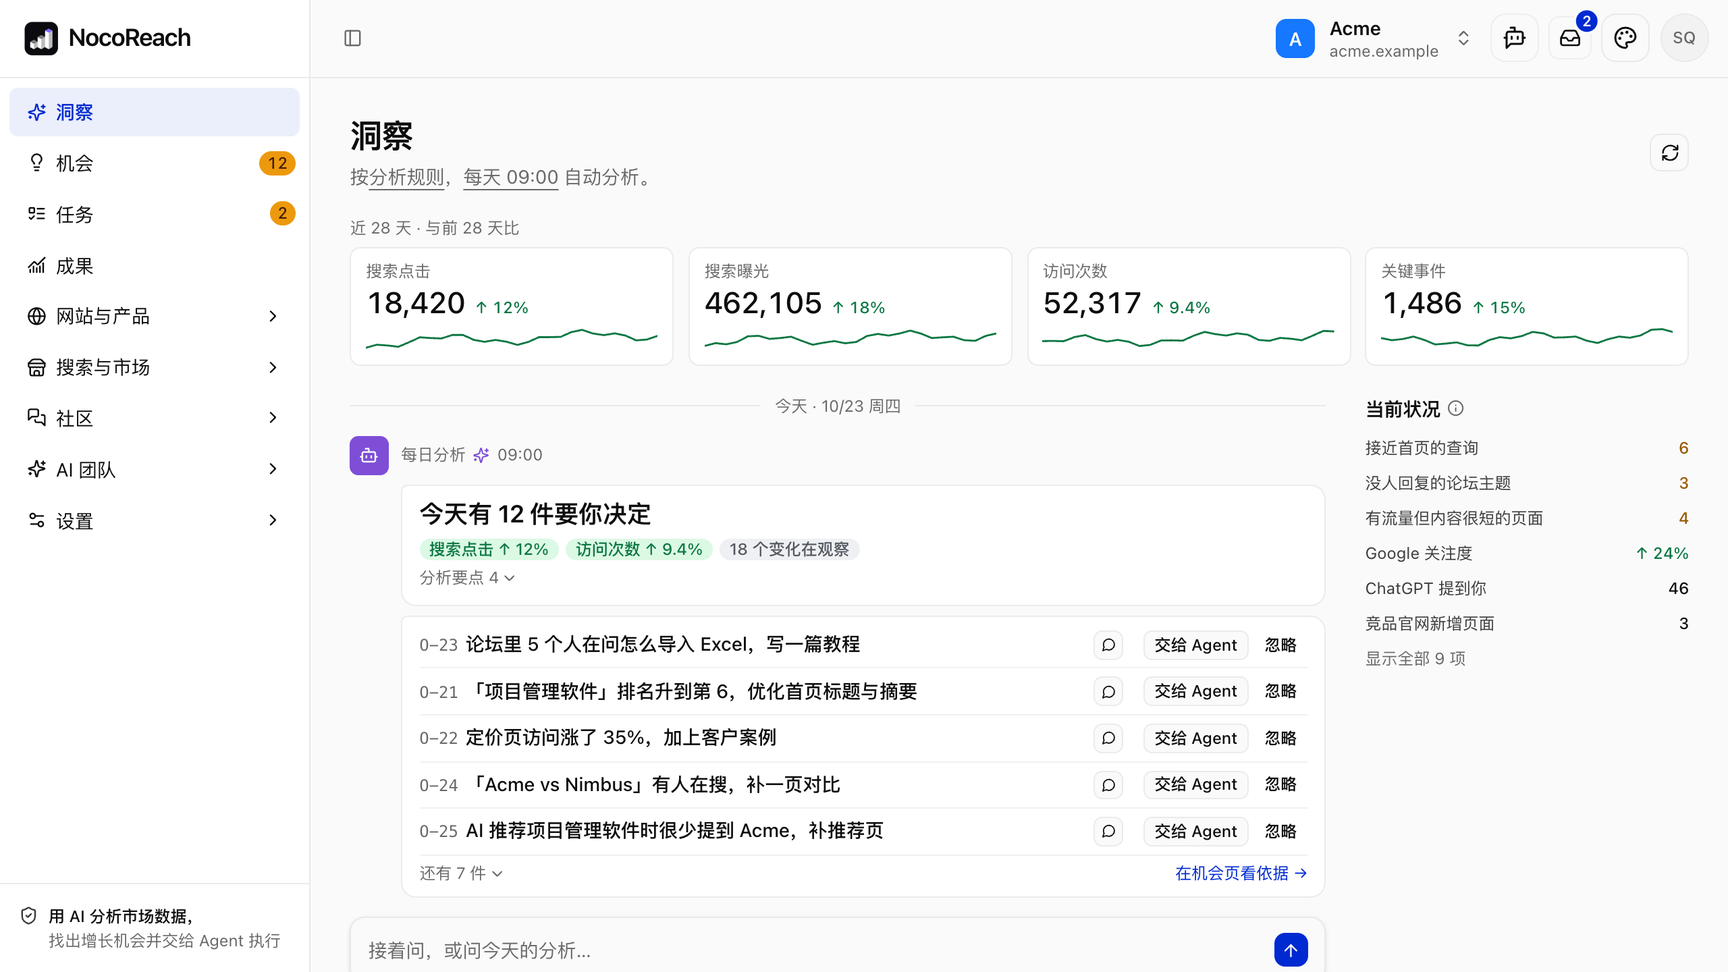
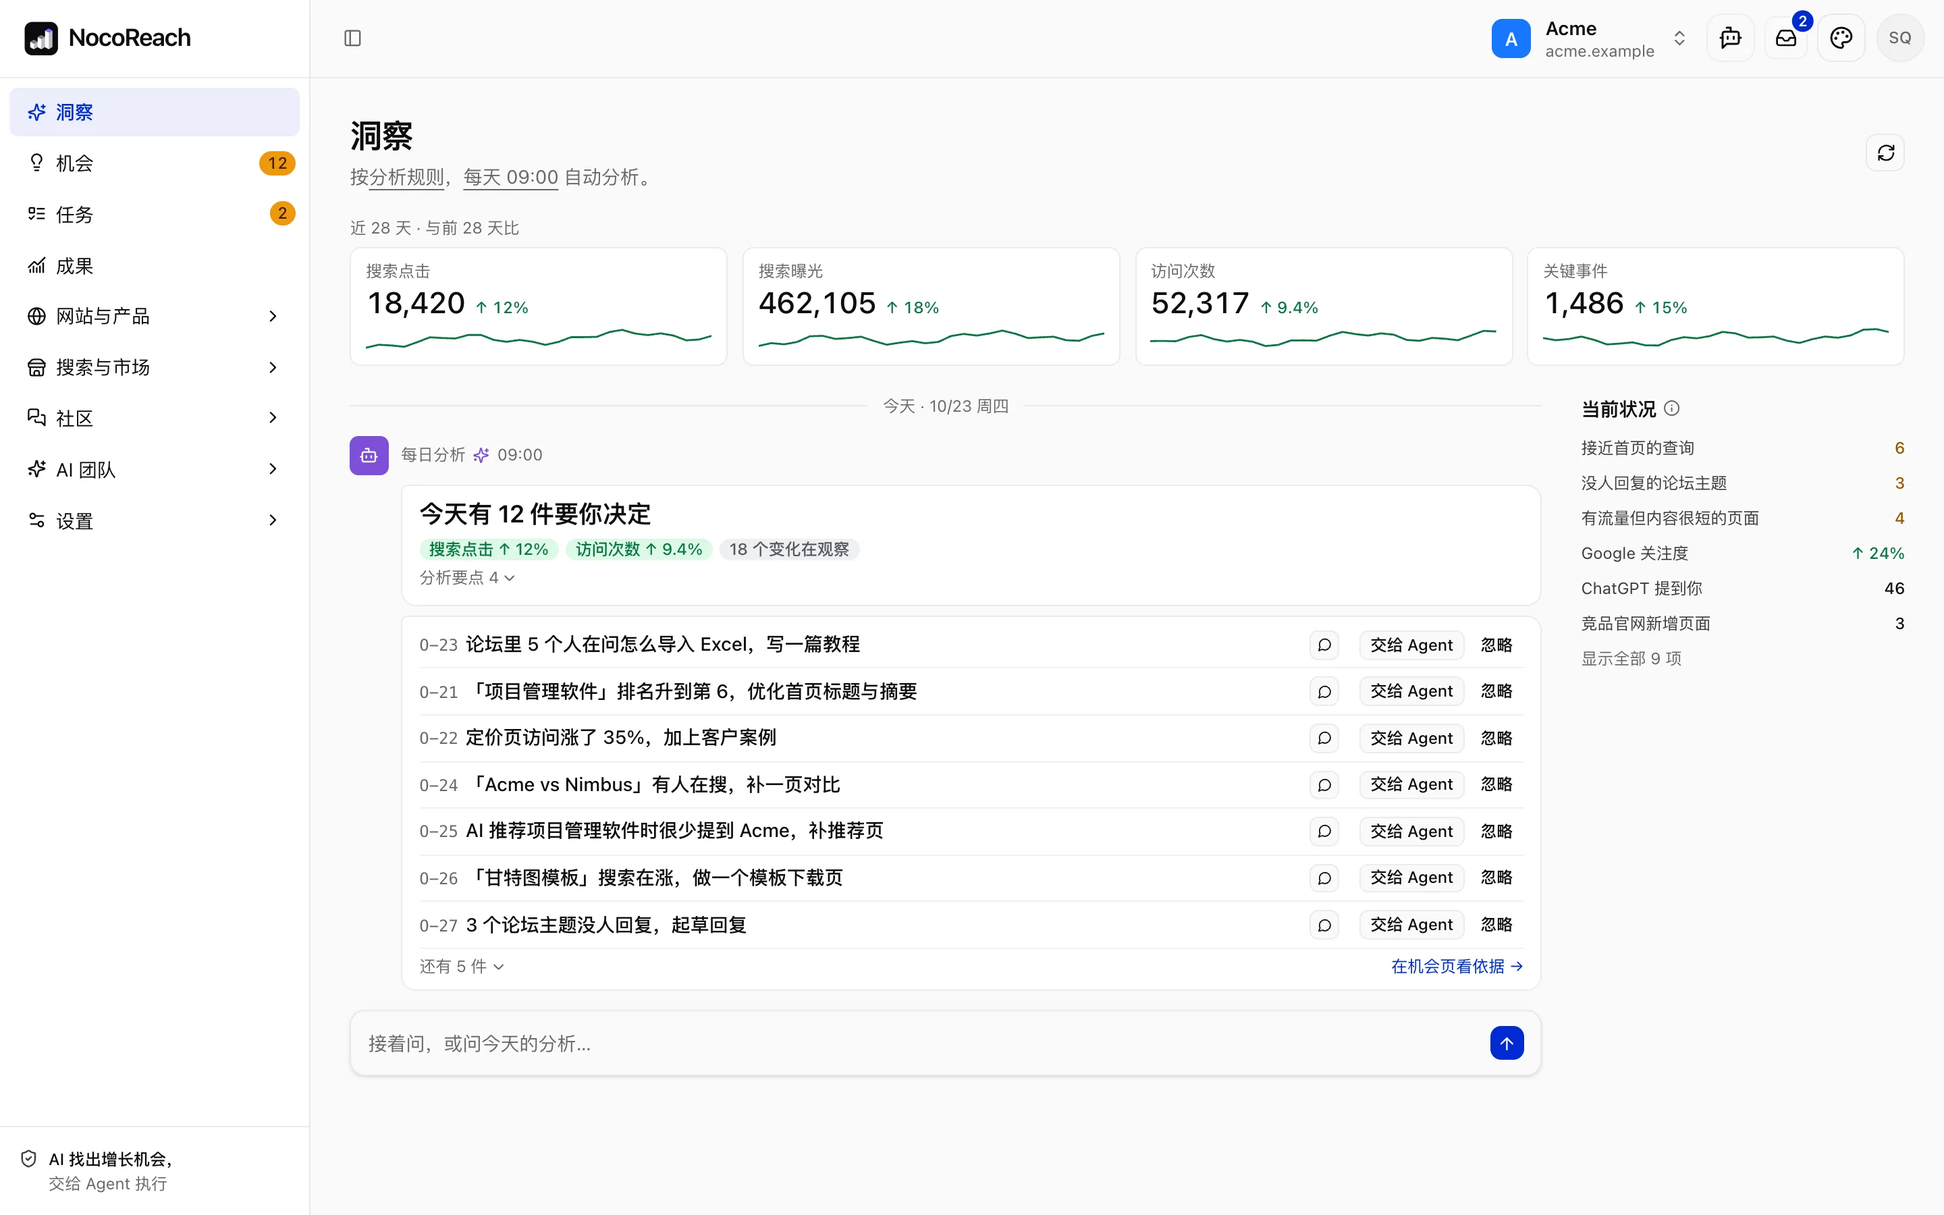
README: screenshot gallery and feature list
Add a gallery of six whole-window screenshots (Insights, Opportunities,
Tasks, Traffic, Keywords, AI search) as clickable thumbnails, all drawn
from the fictional Acme example used on the website and in the film.
Rewrite the intro and features around what the product does: one place
from keyword research to publishing, daily analysis with AI-assisted rule
tuning, agent execution, review, impact and self-hosting. List the pages
without screenshots.

diff --git a/README.ja-JP.md b/README.ja-JP.md
@@ -9,22 +9,49 @@
 <p align="center">AI グロース運用プラットフォーム · NocoBase Core で構築</p>
 
 <p align="center">
+  <a href="LICENSE"><img src="https://img.shields.io/badge/license-Apache--2.0-blue" alt="Apache-2.0"></a>
+  <a href="https://github.com/nocobase/NocoReach/tags"><img src="https://img.shields.io/github/v/tag/nocobase/NocoReach?label=version&sort=semver" alt="version"></a>
+  <a href="https://www.nocobase.com"><img src="https://img.shields.io/badge/built%20on-NocoBase%20Core-1f6feb" alt="Built on NocoBase Core"></a>
+</p>
+
+<p align="center">
   <a href="https://solutions.nocobase.com/reach/"><strong>オンラインで試す</strong></a> · <a href="https://www.nocobase.com/solution-reach/">Web サイト</a> · <a href="README.md">English</a> · <a href="README.zh-CN.md">简体中文</a> · <strong>日本語</strong>
 </p>
 
 https://github.com/user-attachments/assets/7fa9af94-3ce1-4918-841e-07cb9e6869e1
 
-NocoReach は AI グロース運用プラットフォームです。検索や AI 検索からコミュニティ、競合まで 20 以上のデータソースに接続し、取り組む価値のあることを毎日見つけて、エージェントに任せます。変更はすべてあなたがレビューします。
+NocoReach は AI グロース運用プラットフォームです。検索や AI 検索からコミュニティ、競合まで 20 以上のデータソースに接続し、すべてのデータの変化を毎日自動で分析して、データに潜む機会を見つけます。取り組む価値のあるマーケティング施策はエージェントに任せ、変更はあなたがレビューし、公開後は効果を自動で比較します。
 
-| ステップ                | 内容                                                                      |
-| ----------------------- | ------------------------------------------------------------------------- |
-| 1. データを一か所に     | Web サイト、検索、AI 検索、コミュニティ、競合を毎日同期                   |
-| 2. 毎日の分析           | AI がその日の変化を一件ずつ判断し、取り組む価値のあるものを改善機会にする |
-| 3. エージェントに任せる | 確認すれば、複数のタスクが同時に進む                                      |
-| 4. あなたがレビュー     | 記事やページの変更は、承認してから公開                                    |
-| 5. 効果の比較           | 公開から 7 日後と 28 日後に自動で比較                                     |
+## 特長
 
-![インサイト：毎日の分析と、今日判断が必要なこと](https://cdn.jsdelivr.net/gh/nocobase/NocoReach@main/docs/images/readme/insights-en.webp)
+- **ワンストップ**：キーワード調査、データの確認、エージェントへの執筆依頼、レビューと公開、効果の比較まで、ひとつのシステムで完結します。推奨やマーケティング提案は接続したすべてのデータに基づくため、より的確です。
+- **22 のデータソースを一か所に**：GA4、Search Console、キーワードと順位、Google Trends、競合、AI検索（ChatGPT、Google AI Overviews）、GitHub、npm / PyPI / Docker Hub、Discourse、Discord、Slack、Reddit、Hacker News、X、YouTube。足りないデータソースは Coding Agent に開発させられます。
+- **毎日の分析**：44 個の内蔵ルールで変化を見つけ、AI が一件ずつ判断します（対応推奨、経過観察、対応不要）。取り組む価値のあるマーケティング施策は、根拠付きの改善機会になります。ルールの調整は AI が手伝います。各ルールが最近見つけた変化をもとに AI が変更を提案し、確認すると反映されるので、ルールを実際のニーズに合わせられます。
+- **エージェントによる実行**：Claude Code や Codex などのコーディングエージェントが、Runner を通じてあなたのパソコンやサーバー上で動き、複数のタスクを並行して進めます。調査、コンテンツ作成、コンテンツ改善、技術的な修正をカバーする 12 個のプレイブックを内蔵し、編集も AI による新規作成もできます。
+- **人によるレビュー**：記事は読者が見るとおりにプレビューし、ページの変更は変更前後を表示します。承認するまで公開されません。
+- **効果の比較**：公開から 7 日後と 28 日後に、変更したページの検索クリック数とページビューを自動で比較します。
+- **カスタマイズ**：スキル（標準の SKILL.md 形式）、ナレッジ、分析ルール、プレイブックはチームに合わせて変えられます。ソースコードが公開されているので、Coding Agent に必要な部分をカスタマイズさせられます。
+- **セルフホスト**：データは自分のサーバーに保存され、モデルとエージェントは自由に選べます。Apache-2.0 ライセンス。
+
+## スクリーンショット
+
+<table>
+  <tr>
+    <td width="33%" valign="top"><a href="https://cdn.jsdelivr.net/gh/nocobase/NocoReach@main/docs/images/readme/insights-en.webp"><img src="https://cdn.jsdelivr.net/gh/nocobase/NocoReach@main/docs/images/readme/insights-en-thumb.webp" width="240" alt="インサイト"></a><br><b>インサイト</b><br><sub>毎日の分析が、その日の変化を一件ずつ判断</sub></td>
+    <td width="33%" valign="top"><a href="https://cdn.jsdelivr.net/gh/nocobase/NocoReach@main/docs/images/readme/opportunities-en.webp"><img src="https://cdn.jsdelivr.net/gh/nocobase/NocoReach@main/docs/images/readme/opportunities-en-thumb.webp" width="240" alt="改善機会"></a><br><b>改善機会</b><br><sub>すべてに根拠があり、ワンクリックでエージェントへ</sub></td>
+    <td width="33%" valign="top"><a href="https://cdn.jsdelivr.net/gh/nocobase/NocoReach@main/docs/images/readme/tasks-en.webp"><img src="https://cdn.jsdelivr.net/gh/nocobase/NocoReach@main/docs/images/readme/tasks-en-thumb.webp" width="240" alt="タスク"></a><br><b>タスク</b><br><sub>複数のタスクが並行して進む</sub></td>
+  </tr>
+  <tr>
+    <td width="33%" valign="top"><a href="https://cdn.jsdelivr.net/gh/nocobase/NocoReach@main/docs/images/readme/traffic-en.webp"><img src="https://cdn.jsdelivr.net/gh/nocobase/NocoReach@main/docs/images/readme/traffic-en-thumb.webp" width="240" alt="トラフィック"></a><br><b>トラフィック</b><br><sub>GA4 の訪問、流入元、キーイベント</sub></td>
+    <td width="33%" valign="top"><a href="https://cdn.jsdelivr.net/gh/nocobase/NocoReach@main/docs/images/readme/keywords-en.webp"><img src="https://cdn.jsdelivr.net/gh/nocobase/NocoReach@main/docs/images/readme/keywords-en-thumb.webp" width="240" alt="キーワード"></a><br><b>キーワード</b><br><sub>選んでエージェントに任せる</sub></td>
+    <td width="33%" valign="top"><a href="https://cdn.jsdelivr.net/gh/nocobase/NocoReach@main/docs/images/readme/aisearch-en.webp"><img src="https://cdn.jsdelivr.net/gh/nocobase/NocoReach@main/docs/images/readme/aisearch-en-thumb.webp" width="240" alt="AI検索"></a><br><b>AI検索</b><br><sub>他社は出てくるのに自社は出てこない質問をエージェントへ</sub></td>
+  </tr>
+</table>
+
+その他のページ：
+
+- **データ**：ページ、サイト監査、パフォーマンス、トレンド、競合、GitHub、ダウンロード、フォーラム、Hacker News、Reddit、X、Discord、Slack、YouTube
+- **運用**：成果、プレイブック、スキル、ナレッジ、分析ルール、エージェント、メンバー & ロール、データソース
 
 ## はじめに
 

diff --git a/README.md b/README.md
@@ -9,22 +9,49 @@
 <p align="center">AI growth operations platform · Built on NocoBase Core</p>
 
 <p align="center">
+  <a href="LICENSE"><img src="https://img.shields.io/badge/license-Apache--2.0-blue" alt="Apache-2.0"></a>
+  <a href="https://github.com/nocobase/NocoReach/tags"><img src="https://img.shields.io/github/v/tag/nocobase/NocoReach?label=version&sort=semver" alt="version"></a>
+  <a href="https://www.nocobase.com"><img src="https://img.shields.io/badge/built%20on-NocoBase%20Core-1f6feb" alt="Built on NocoBase Core"></a>
+</p>
+
+<p align="center">
   <a href="https://solutions.nocobase.com/reach/"><strong>Try it online</strong></a> · <a href="https://www.nocobase.com/solution-reach/">Website</a> · <strong>English</strong> · <a href="README.zh-CN.md">简体中文</a> · <a href="README.ja-JP.md">日本語</a>
 </p>
 
 https://github.com/user-attachments/assets/7fa9af94-3ce1-4918-841e-07cb9e6869e1
 
-NocoReach is an AI growth operations platform. It connects 20+ data sources, from search and AI search to community and competitors, finds what's worth doing every day, and hands it to agents. You review every change.
+NocoReach is an AI growth operations platform. It connects 20+ data sources, from search and AI search to community and competitors, analyzes every change in the data each day, finds the opportunities in it, and hands the marketing actions worth taking to agents. You review the work before it goes live, and the impact is compared after launch.
 
-| Step                     | What happens                                                        |
-| ------------------------ | ------------------------------------------------------------------- |
-| 1. All data in one place | Site, search, AI search, community and competitors, synced daily    |
-| 2. Daily analysis        | AI weighs each of the day's changes and writes up those worth doing |
-| 3. Handed to agents      | Once you confirm, many tasks move at once                           |
-| 4. Your review           | Articles and page changes go live only once you approve             |
-| 5. Impact                | Compared automatically on days 7 and 28                             |
+## Features
 
-![Insights: the daily analysis and what needs your decision today](https://cdn.jsdelivr.net/gh/nocobase/NocoReach@main/docs/images/readme/insights-en.webp)
+- **All in one place**: Research keywords, read the data, hand the writing to an agent, review and publish, and compare the impact, all in one system. Recommendations and marketing suggestions draw on every connected source, which makes them more precise.
+- **22 data sources, one store**: GA4, Search Console, keywords and rankings, Google Trends, competitors, AI search (ChatGPT, Google AI Overviews), GitHub, npm / PyPI / Docker Hub, Discourse, Discord, Slack, Reddit, Hacker News, X and YouTube. Missing one? Have a coding agent build it.
+- **Daily analysis**: 44 built-in rules find the changes; AI gives each one a verdict (act on it, watch it, or no action needed) and writes up the marketing actions worth taking as opportunities with evidence. AI helps you tune the rules: it looks at what each rule found recently and proposes changes that apply once you confirm, so the rules fit what you actually need.
+- **Agent execution**: Coding agents such as Claude Code and Codex run through a Runner on your computer or servers, many tasks at once. 12 built-in playbooks cover research, content creation, content optimization and technical fixes; change them, or have AI draft new ones.
+- **Human review**: Articles are previewed as readers will see them and page changes show before and after; nothing goes live until you approve.
+- **Impact**: On days 7 and 28 after launch, each changed page's search clicks and views are compared automatically.
+- **Customizable**: Skills (the common SKILL.md format), project knowledge, analysis rules and playbooks all follow your team; the source is open, so a coding agent can customize the rest.
+- **Self-hosted**: Your data stays on your servers, with the models and agents of your choice. Apache-2.0.
+
+## Screenshots
+
+<table>
+  <tr>
+    <td width="33%" valign="top"><a href="https://cdn.jsdelivr.net/gh/nocobase/NocoReach@main/docs/images/readme/insights-en.webp"><img src="https://cdn.jsdelivr.net/gh/nocobase/NocoReach@main/docs/images/readme/insights-en-thumb.webp" width="240" alt="Insights"></a><br><b>Insights</b><br><sub>The daily analysis weighs each of the day's changes</sub></td>
+    <td width="33%" valign="top"><a href="https://cdn.jsdelivr.net/gh/nocobase/NocoReach@main/docs/images/readme/opportunities-en.webp"><img src="https://cdn.jsdelivr.net/gh/nocobase/NocoReach@main/docs/images/readme/opportunities-en-thumb.webp" width="240" alt="Opportunities"></a><br><b>Opportunities</b><br><sub>Evidence for each, one click to an agent</sub></td>
+    <td width="33%" valign="top"><a href="https://cdn.jsdelivr.net/gh/nocobase/NocoReach@main/docs/images/readme/tasks-en.webp"><img src="https://cdn.jsdelivr.net/gh/nocobase/NocoReach@main/docs/images/readme/tasks-en-thumb.webp" width="240" alt="Tasks"></a><br><b>Tasks</b><br><sub>Many tasks moving at once</sub></td>
+  </tr>
+  <tr>
+    <td width="33%" valign="top"><a href="https://cdn.jsdelivr.net/gh/nocobase/NocoReach@main/docs/images/readme/traffic-en.webp"><img src="https://cdn.jsdelivr.net/gh/nocobase/NocoReach@main/docs/images/readme/traffic-en-thumb.webp" width="240" alt="Traffic"></a><br><b>Traffic</b><br><sub>GA4 visits, sources and key events</sub></td>
+    <td width="33%" valign="top"><a href="https://cdn.jsdelivr.net/gh/nocobase/NocoReach@main/docs/images/readme/keywords-en.webp"><img src="https://cdn.jsdelivr.net/gh/nocobase/NocoReach@main/docs/images/readme/keywords-en-thumb.webp" width="240" alt="Keywords"></a><br><b>Keywords</b><br><sub>Tick keywords and hand them to an agent</sub></td>
+    <td width="33%" valign="top"><a href="https://cdn.jsdelivr.net/gh/nocobase/NocoReach@main/docs/images/readme/aisearch-en.webp"><img src="https://cdn.jsdelivr.net/gh/nocobase/NocoReach@main/docs/images/readme/aisearch-en-thumb.webp" width="240" alt="AI search"></a><br><b>AI search</b><br><sub>Questions where others appear and you don't, to an agent</sub></td>
+  </tr>
+</table>
+
+More pages:
+
+- **Data**: Pages, Site audit, Performance, Trends, Competitors, GitHub, Downloads, Forum, Hacker News, Reddit, X, Discord, Slack, YouTube
+- **Operations**: Results, Playbooks, Skills, Knowledge, Analysis rules, Agent, Members & roles, Data sources
 
 ## Getting started
 

diff --git a/README.zh-CN.md b/README.zh-CN.md
@@ -9,22 +9,49 @@
 <p align="center">AI 增长运营平台 · 基于 NocoBase Core 构建</p>
 
 <p align="center">
+  <a href="LICENSE"><img src="https://img.shields.io/badge/license-Apache--2.0-blue" alt="Apache-2.0"></a>
+  <a href="https://github.com/nocobase/NocoReach/tags"><img src="https://img.shields.io/github/v/tag/nocobase/NocoReach?label=version&sort=semver" alt="version"></a>
+  <a href="https://www.nocobase.com"><img src="https://img.shields.io/badge/built%20on-NocoBase%20Core-1f6feb" alt="Built on NocoBase Core"></a>
+</p>
+
+<p align="center">
   <a href="https://solutions-cn.nocobase.com/reach/"><strong>在线体验</strong></a> · <a href="https://www.nocobase.com/solution-reach/">官网介绍</a> · <a href="README.md">English</a> · <strong>简体中文</strong> · <a href="README.ja-JP.md">日本語</a>
 </p>
 
 https://github.com/user-attachments/assets/25e0c3ba-ddd5-4dad-be9c-179bc145cd9b
 
-NocoReach 是 AI 增长运营平台，接入网站、搜索、AI 搜索、社区、社交媒体和竞品等 20 多个数据源：每天找出值得做的事，交给 Agent 执行，改动由你审核，上线后自动对比效果。
+NocoReach 是 AI 增长运营平台，接入网站、搜索、AI 搜索、社区、社交媒体和竞品等 20 多个数据源，每天自动分析所有数据的变化，找出数据里的机会，把值得做的市场动作交给 Agent 执行；改动由你审核，上线后自动对比效果。
 
-| 步骤            | 做什么                                    |
-| --------------- | ----------------------------------------- |
-| 1. 数据汇在一处 | 网站、搜索、AI 搜索、社区和竞品，每天同步 |
-| 2. 每日分析     | AI 逐条判断当天的变化，把值得做的写成机会 |
-| 3. 交给 Agent   | 你确认后，多项任务同时推进                |
-| 4. 由你审核     | 文章和页面改动，通过后才发布              |
-| 5. 效果对比     | 上线后第 7、28 天自动对比                 |
+## 特点
 
-![洞察：每日分析和今天要你决定的事](https://cdn.jsdelivr.net/gh/nocobase/NocoReach@main/docs/images/readme/insights-zh.webp)
+- **一站式完成**：查找关键词、查看数据、交给 Agent 撰写、审核发布和效果对比，都在同一个系统中完成。推荐与市场建议综合全部接入的数据，更加精准。
+- **22 个数据源，统一存储**：GA4、Search Console、关键词与排名、Google Trends、竞品、AI 搜索（ChatGPT、Google AI 概览）、GitHub、npm / PyPI / Docker Hub、Discourse、Discord、Slack、Reddit、Hacker News、X、YouTube、Bilibili、小红书。缺的数据源，可以让 Coding Agent 开发。
+- **每日分析**：44 条内置规则找出变化，AI 逐条给出结论（建议处理、建议观察、无需处理），值得做的市场动作写成带依据的机会。规则可以让 AI 帮忙调整：AI 参考各条规则最近找出的变化提出修改，你确认后生效，让规则更符合你的实际需求。
+- **Agent 执行**：Claude Code、Codex 等编码 Agent 通过 Runner 运行在你的电脑或服务器上，多项任务并行。内置 12 种做法，覆盖调研、内容创作、内容优化和技术修复；可以修改，也可以让 AI 起草新的做法。
+- **人工审核**：文章按读者看到的样子预览，页面改动显示前后对比，通过后才发布。
+- **效果对比**：上线后第 7、28 天，自动对比改动页面的搜索点击和浏览量。
+- **可定制**：Skills（通用 SKILL.md 格式）、项目知识、分析规则和做法都可以按团队调整；源码开放，可以让 Coding Agent 按需求定制。
+- **自托管**：数据存在你自己的服务器上，模型与 Agent 自由选择，Apache-2.0 开源。
+
+## 界面
+
+<table>
+  <tr>
+    <td width="33%" valign="top"><a href="https://cdn.jsdelivr.net/gh/nocobase/NocoReach@main/docs/images/readme/insights-zh.webp"><img src="https://cdn.jsdelivr.net/gh/nocobase/NocoReach@main/docs/images/readme/insights-zh-thumb.webp" width="240" alt="洞察"></a><br><b>洞察</b><br><sub>每日分析逐条判断当天的变化</sub></td>
+    <td width="33%" valign="top"><a href="https://cdn.jsdelivr.net/gh/nocobase/NocoReach@main/docs/images/readme/opportunities-zh.webp"><img src="https://cdn.jsdelivr.net/gh/nocobase/NocoReach@main/docs/images/readme/opportunities-zh-thumb.webp" width="240" alt="机会"></a><br><b>机会</b><br><sub>每个机会都附依据，一键交给 Agent</sub></td>
+    <td width="33%" valign="top"><a href="https://cdn.jsdelivr.net/gh/nocobase/NocoReach@main/docs/images/readme/tasks-zh.webp"><img src="https://cdn.jsdelivr.net/gh/nocobase/NocoReach@main/docs/images/readme/tasks-zh-thumb.webp" width="240" alt="任务"></a><br><b>任务</b><br><sub>多项任务并行推进</sub></td>
+  </tr>
+  <tr>
+    <td width="33%" valign="top"><a href="https://cdn.jsdelivr.net/gh/nocobase/NocoReach@main/docs/images/readme/traffic-zh.webp"><img src="https://cdn.jsdelivr.net/gh/nocobase/NocoReach@main/docs/images/readme/traffic-zh-thumb.webp" width="240" alt="访问"></a><br><b>访问</b><br><sub>GA4 访问、来源和关键事件</sub></td>
+    <td width="33%" valign="top"><a href="https://cdn.jsdelivr.net/gh/nocobase/NocoReach@main/docs/images/readme/keywords-zh.webp"><img src="https://cdn.jsdelivr.net/gh/nocobase/NocoReach@main/docs/images/readme/keywords-zh-thumb.webp" width="240" alt="关键词"></a><br><b>关键词</b><br><sub>勾选关键词，交给 Agent</sub></td>
+    <td width="33%" valign="top"><a href="https://cdn.jsdelivr.net/gh/nocobase/NocoReach@main/docs/images/readme/aisearch-zh.webp"><img src="https://cdn.jsdelivr.net/gh/nocobase/NocoReach@main/docs/images/readme/aisearch-zh-thumb.webp" width="240" alt="AI 搜索"></a><br><b>AI 搜索</b><br><sub>别人出现、你没有的问题，交给 Agent</sub></td>
+  </tr>
+</table>
+
+其他页面：
+
+- **数据**：页面、审计、搜索表现、趋势、竞品、GitHub、下载量、论坛、Hacker News、Reddit、X、Discord、Slack、YouTube、Bilibili、小红书
+- **运营**：成果、做法、Skills、项目知识、分析规则、Agent、成员与角色、数据接入
 
 ## 快速开始
 
